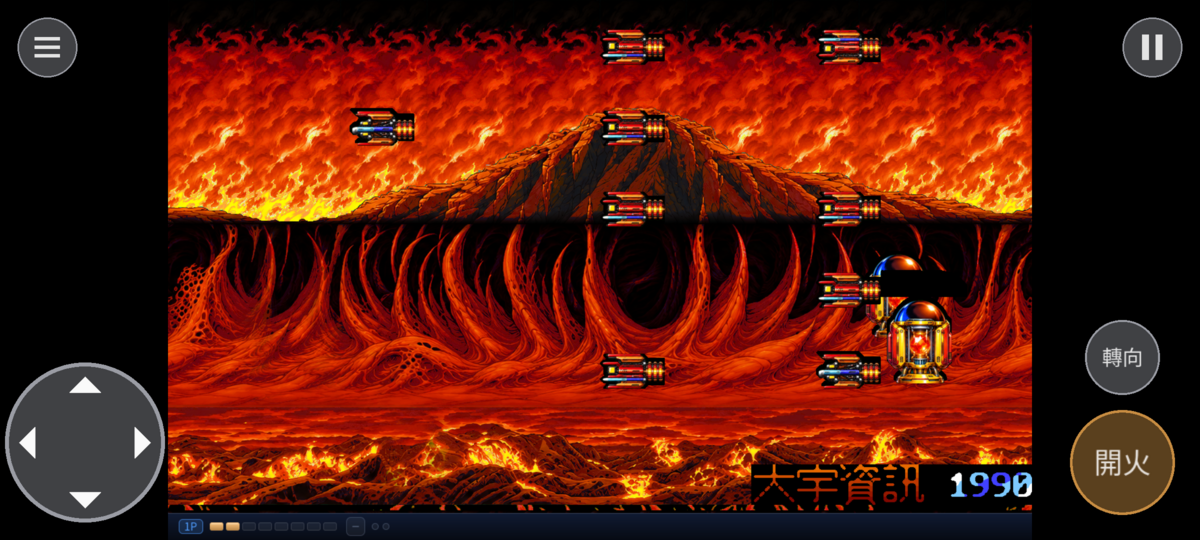
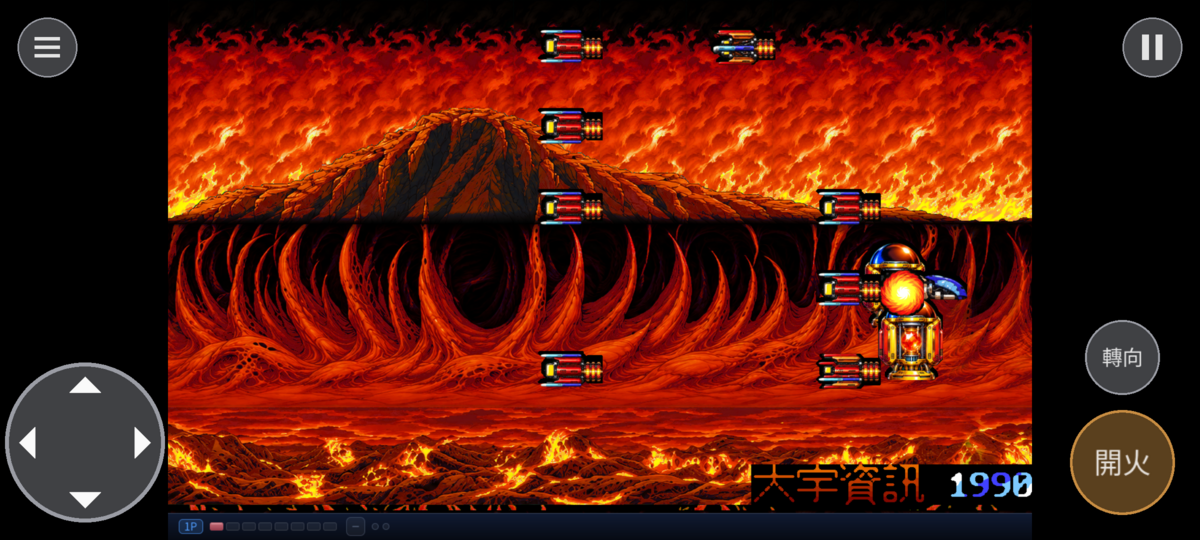
v1.0.0 結案：發行包與推廣影片改成 v1.0.0，workspace 清理
- README、規格 004、CONTEXT 改指 v.1.0.0-20261106；Android 截圖換成 v1.0.0 的煙霧測試畫面。
- AGENTS.md 的現況句改成 remake 已發行 v1.0.0。
- WORKLOG 記 v1.0.0 的驗證、刪除與保留清單、dosgolem 副本的復原方法，以及清理後重跑的測試結果。

diff --git a/CONTEXT.md b/CONTEXT.md
@@ -14,7 +14,7 @@
 | HD | 全部 1,337 個圖庫索引、201 張遮罩、第三關地圖、326 張調色盤變體、1,526 張單色版都有輸出。成品在 `workspace/hd/assets/`，說明見 `docs/hd/codex-handoff.md`。全流程接入無缺圖，四關目視過，配色與第一關接縫已修 |
 | remake | 從標題玩到片尾：規格 [001](docs/spec/001-rust-first-stage.md)、[002](docs/spec/002-full-game.md)、[003](docs/spec/003-audio.md) 都是 CONFORMED。E 模式的模擬、畫面與音樂暫存器和原版逐筆相同。核心是有型別的重寫（規格 [004](docs/spec/004-rewrite-and-delivery.md)）。CGA、MGA 可在遊戲中切換，有 HD（規格 [006](docs/spec/006-display-modes.md) CONFORMED） |
 | 強化選項 | 規格 [005](docs/spec/005-enhanced-mode.md) 十二個選項都已實作，CONFORMED。手感、平衡與難度沒有真人驗證 |
-| 發行包 | Linux AppImage、Windows zip、macOS universal、Android APK，放 `dist-all/`，只留本機。macOS 與 Android 沒有實機跑過 |
+| 發行包 | v1.0.0（`v.1.0.0-20261106`）：Linux AppImage、Windows zip、macOS universal、Android APK 與 72 秒推廣影片，放 `dist-all/v.1.0.0-20261106/`，只留本機。macOS 與 Android 沒有實機跑過 |
 | 版控 | 私人 repo `wicanr2/rs2-remake`，推送前跑 `tools/leak_check.py`。`docs/images/` 有含原版美術的對照圖，公開前要清歷史 |
 | LICENSE | RRSAL-1.0 |
 
@@ -40,6 +40,7 @@
 - 2026-11-05 使用者定位：這是台灣自製的 R-Type 類射擊遊戲，有文化保存的必要。原版規則永遠保留，強化全部是選項（規格 005）。
 - 2026-11-05 使用者要求介面也要 HD、要現代化：HD 模式重新設計 HUD、選單高亮與打擊回饋，工具列與設定畫面改現代風格，原貌模式維持 1990 年的樣子（規格 005「HD 介面」）。
 - 2026-11-05 使用者決定強化範圍（規格 005）：戰場真的變大（工具列切 100%、120%、150%）；射擊要波動砲充能、打擊回饋、按住連射、砲座像 Force；要無敵選項；改善 DOS 操控不佳的問題，支援手把；AI 要瞄準更準、火力加強、敵人會反應、頭目新招式，當作設定選項，預設關閉。工具列與手把設定參考 `~/cht/快打至尊`。代理把「只影響顯示與聲音的選項預設開啟，其餘改變規則的選項預設關閉」當作預設，使用者可以改。
+- 2026-11-06 使用者宣布結案：發行 v1.0.0，包含推廣影片；舊的 v0.9.0 發行包刪除；workspace 只留必要的檔案，dosgolem 副本與 Android 建置快取也刪，要用時再復原（`tools/dosgolem-patches/README.md`）。推廣影片只留本機，主軸是文化保存，也有實際遊玩畫面。
 - 2026-11-06 代理決定（remake-owned，使用者可以改）：戰場大小只加寬水平方向；寬戰場時自由飛行的敵人腳本結束後繼續飛出畫面，景物綁定的敵人提前生成，對齊地圖欄位（規格 005「戰場大小」）。
 
 ## 重要發現

diff --git a/WORKLOG.md b/WORKLOG.md
@@ -378,3 +378,14 @@ Android 煙霧測試第二次啟動的失敗：
 沒驗證：沒有人用耳朵聽過配樂，只有音量數字；`make.sh` 各步驟分別跑過，沒有從頭整體重跑。
 
 執行邊界：影片代理在主機跑過一次 `python3 -c 1`。
+
+### v1.0.0 與結案清理（2026-11-06）
+
+- 使用者宣布結案，指定發行 v1.0.0、包含推廣影片，舊版刪除，workspace 只留必要檔案，dosgolem 副本與 Android 建置快取也刪。
+- `build_all.sh v.1.0.0-20261106`：靜態 72 項、資料子集 8 項、Linux 28 項、Windows 22 項，失敗 0；`--version` 是 `rs2-play v.1.0.0-20261106`。Android APK 煙霧測試通過，ANR 0 筆。版本碼 1000000，可以覆蓋安裝 v0.9.0 的 9000。
+- 推廣影片沒有重錄，只重新合成，片尾字卡改成 v1.0.0。遊玩片段錄自 v.0.9.0-20261106 的 AppImage，和 v1.0.0 只差版本字串與 `--help` 說明的一行；Android 段用 v1.0.0 的煙霧測試截圖。成品與 `.sha256` 在 `dist-all/v.1.0.0-20261106/promo/`。
+- README 的桌面截圖用 v1.0.0 重截，和 v0.9.0 的逐位元組相同；Android 截圖換成 v1.0.0 的。
+- 刪除：`dist-all/v.0.9.0-*`；三個 `agent-*` worktree（其中一個被本 session 自己鎖住，對應的代理早已結束，解鎖後移除；Go 模組快取是唯讀的，加寫入權限後刪）；workspace 的編譯產物、打包暫存、各批截圖、影片的錄影與分段、worktree 歸檔裡的截圖、`workspace/dosgolem`、Android 的 `cache` 與 `out`。workspace 從 4.3 GB 降到 1.1 GB。
+- 保留：HD 全部、`dosrun`、`dosrun-modes`、`extracted`、`unpacked`、IDA 匯出、`cargo`、`cargo-play`、打包輸入、SDL 快取、Android 簽章金鑰 `debug.keystore` 與煙霧測試截圖、`rs2/audio`、測試用的輸入紀錄、`review`、`progress`、`promo/replays`。
+- 清理後重跑：`verify` 602 項、`play-test`（lib 366、a6 12、field 3、modes 5）、`wait_test.sh` 20 份 19284/19284 筆全部通過，測試重新產生的編譯產物與截圖跑完再刪，workspace 收在 1.1 GB。
+- `workspace/dosgolem` 的復原：照 `tools/dosgolem-patches/README.md` 從 `~/cht/dosgolem` 的 f79eab6 複製並套 8 個補丁。刪除前在暫存目錄重做一次，原始碼和刪掉的副本逐檔相同（不含 `workplace/`）。`workplace/` 的 Go 模組快取要重新下載，需要網路。

diff --git a/README.md b/README.md
@@ -209,13 +209,13 @@ tools/rust.sh play              # 有 workspace/hd/assets 就用 HD，加 --no-h
 ### 發行包
 
 ```sh
-bash tools/package/build_all.sh v.0.9.0-YYYYMMDD
-ANDROID_SRC=$PWD tools/package/android_apk.sh v.0.9.0-YYYYMMDD arm64-v8a x86_64
+bash tools/package/build_all.sh v.1.0.0-YYYYMMDD
+ANDROID_SRC=$PWD tools/package/android_apk.sh v.1.0.0-YYYYMMDD arm64-v8a x86_64
 ```
 
-成品放在 `dist-all/`，內含原版資料與 HD 圖，只供自己保存，不上傳。步驟與驗證見[規格 004](docs/spec/004-rewrite-and-delivery.md)。
+成品放在 `dist-all/`，內含原版資料與 HD 圖，只供自己保存，不上傳。步驟與驗證見[規格 004](docs/spec/004-rewrite-and-delivery.md)。目前的版本是 v1.0.0（`v.1.0.0-20261106`），另有一支 72 秒的推廣影片，由 `tools/promo/make.sh` 產生，同樣只留本機。
 
-下面的畫面都取自 v.0.9.0-20261106 的發行包：桌面版由 `tools/package/readme_shots.sh` 在容器裡執行 AppImage 截取，Android 版取自模擬器的煙霧測試（`tools/package/android_smoke.sh`）。
+下面的畫面都取自 v.1.0.0-20261106 的發行包：桌面版由 `tools/package/readme_shots.sh` 在容器裡執行 AppImage 截取，Android 版取自模擬器的煙霧測試（`tools/package/android_smoke.sh`）。
 
 | | |
 |---|---|

diff --git a/docs/spec/004-rewrite-and-delivery.md b/docs/spec/004-rewrite-and-delivery.md
@@ -102,7 +102,7 @@
 | macOS | universal `.app` 的 Zip | `dosgolem-rust-cross`（osxcross、SDK 15.5） | `lipo`、Mach-O 靜態檢查。沒有 Mac，不能宣稱實機驗過 |
 | Android | APK | NDK 27.2（`rich2-go-android`），另裝 Rust 的 Android 目標，SDL 的 `android-project` 在 `sdl2-sys` 內 | `rich2-android-emulator` 跑實際產物 |
 
-v.0.9.0-20261106 的驗證結果（`dist-all/v.0.9.0-20261106/verify/` 與 `workspace/pkg/android/smoke/`）：
+v1.0.0（`v.1.0.0-20261106`）的驗證結果（`dist-all/v.1.0.0-20261106/verify/` 與 `workspace/pkg/android/smoke/`）：
 
 | 平台 | 結果 |
 |---|---|

diff --git a/AGENTS.md b/AGENTS.md
@@ -7,7 +7,7 @@
 保存這款台灣早期 DOS 射擊遊戲的素材、邏輯與製作者資訊，為之後的 clean-room remake 與 decomp 備妥證據。
 
 - 判準是完整性。每張圖、每個顯示模式、每首曲子都要收齊，不以投報率放棄。做不完時寫明未完成項目與下一步方法。
-- 目前是分析階段，沒有 remake 程式碼。現況只看 [CONTEXT.md](CONTEXT.md)，本檔不記進度。
+- remake 在 `crates/`，已發行 v1.0.0。現況只看 [CONTEXT.md](CONTEXT.md)，本檔不記進度。
 
 ## 文件入口
 
